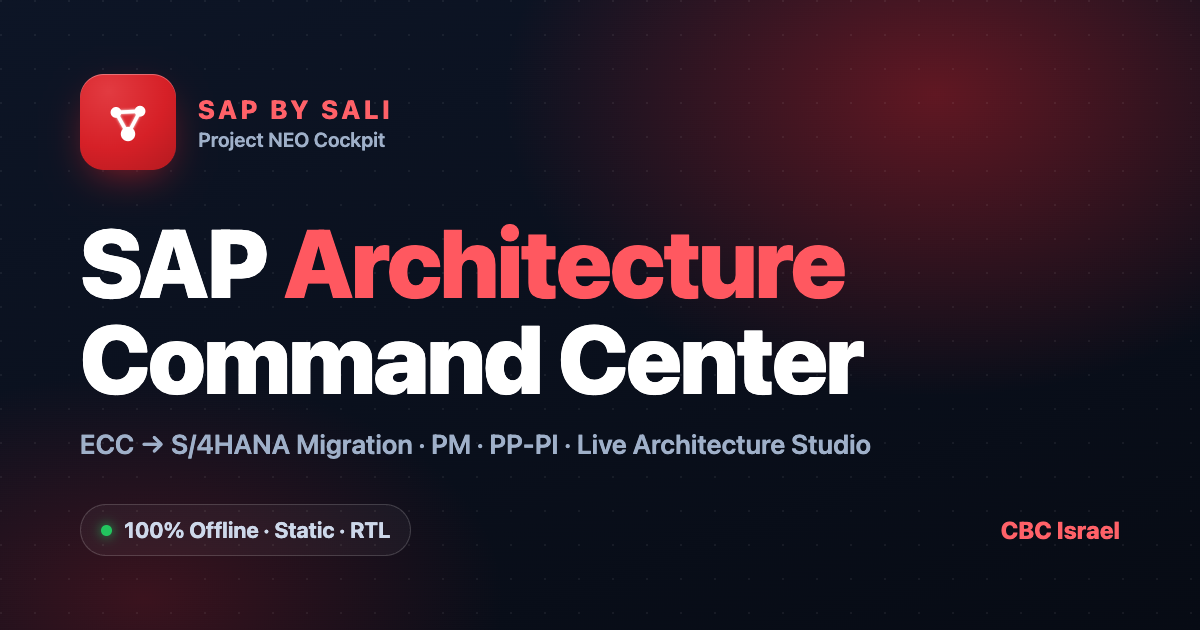
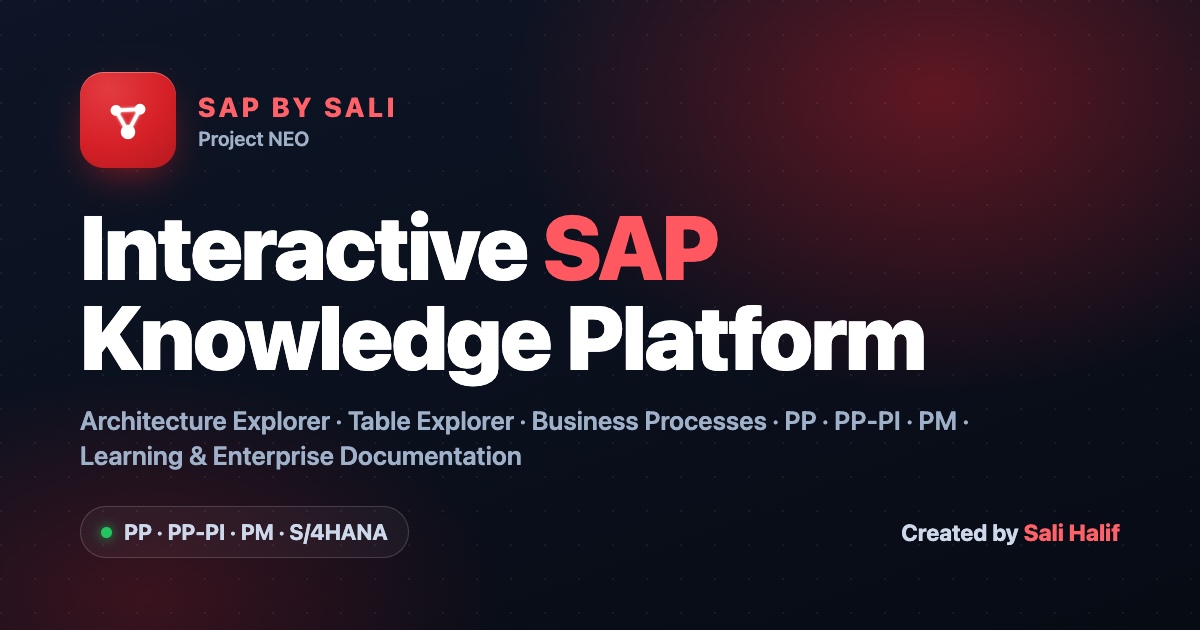
feat(brand): domain, author & identity finalization for sapbysali.app
Domain
- Canonical production domain https://sapbysali.app everywhere (metadata,
  JSON-LD, OG, sitemap, robots). No vercel.app / preview URLs present.
- vercel.json: permanent (301) redirect www.sapbysali.app → sapbysali.app.

Author & identity (single, real name)
- "Sali Halif" everywhere; removed "Sali Khalif", "Web Coding", "sali2610",
  "CBC Israel" and legacy "NEO Cockpit" from all chrome.
- Header logo rebranded to the Project NEO network monogram + "SAP by Sali /
  Project NEO" wordmark (matches favicon & OG).
- Credit bar: "Project NEO · Architecture & Development · Built by Sali Halif ·
  SAP by Sali · SAP Knowledge Platform".
- Footer: "Built by Sali Halif · Project NEO • SAP Knowledge Platform".

Metadata
- Title "SAP by Sali | Project NEO" (+ template). New description (interactive
  SAP PP/PP-PI/PM knowledge platform). author=Sali Halif, publisher/appName=
  SAP by Sali. OG/Twitter titles + alt updated. JSON-LD name/founder updated.

Social & PWA
- Regenerated premium OG image: "SAP by Sali · Project NEO / Interactive SAP
  Knowledge Platform" with "Created by Sali Halif".
- manifest name "SAP by Sali · Project NEO" + new description.

No business logic or SAP content changed. tsc 0, eslint 0, build 4342 pages.

diff --git a/app/layout.tsx b/app/layout.tsx
@@ -4,38 +4,37 @@ import { AppShell } from "@/components/app-shell";
 import { Analytics } from "@vercel/analytics/next";
 
 const SITE = "https://sapbysali.app";
+const AUTHOR = "Sali Halif";
 const DESC =
-  "SAP by Sali · Project NEO — a single source of truth for SAP ECC → S/4HANA migration. Live Architecture Studio, technical data dictionary, status cockpit for PM & PP-PI. 100% offline · RTL.";
-const DESC_HE =
-  "מקור אמת יחיד למיגרציית SAP ECC ל-S/4HANA — סטודיו ארכיטקטורה חי, מילון נתונים טכני וקוקפיט סטטוס ל-PM ו-PP-PI.";
+  "Interactive SAP PP, PP-PI and PM knowledge platform including architecture explorer, table explorer, business processes, SAP learning resources and enterprise documentation.";
 
 export const metadata: Metadata = {
   metadataBase: new URL(SITE),
   title: {
-    default: "SAP by Sali | Project NEO Cockpit",
+    default: "SAP by Sali | Project NEO",
     template: "SAP by Sali | %s",
   },
   description: DESC,
   applicationName: "SAP by Sali",
-  authors: [{ name: "Sali Khalif" }],
-  creator: "Sali Khalif",
-  publisher: "CBC Israel",
-  keywords: ["SAP", "S/4HANA", "ECC", "PP-PI", "PM", "Architecture", "Migration", "Project NEO", "CBC Israel", "Fiori", "CDS", "BAPI"],
-  alternates: { canonical: "/" },
+  authors: [{ name: AUTHOR, url: SITE }],
+  creator: AUTHOR,
+  publisher: "SAP by Sali",
+  keywords: ["SAP", "S/4HANA", "ECC", "PP", "PP-PI", "PM", "Architecture", "Table Explorer", "Business Processes", "Project NEO", "SAP by Sali", "Fiori", "CDS", "BAPI"],
+  alternates: { canonical: SITE },
   manifest: "/manifest.webmanifest",
   robots: { index: true, follow: true, googleBot: { index: true, follow: true, "max-image-preview": "large", "max-snippet": -1 } },
   openGraph: {
     type: "website",
-    siteName: "SAP by Sali · Project NEO",
+    siteName: "SAP by Sali",
     url: SITE,
-    title: "SAP by Sali | Project NEO Cockpit",
-    description: DESC_HE,
+    title: "SAP by Sali | Project NEO",
+    description: DESC,
     locale: "he_IL",
-    images: [{ url: "/og.png", width: 1200, height: 630, alt: "SAP by Sali — Project NEO · SAP Architecture Command Center" }],
+    images: [{ url: "/og.png", width: 1200, height: 630, alt: "SAP by Sali — Project NEO · Interactive SAP Knowledge Platform" }],
   },
   twitter: {
     card: "summary_large_image",
-    title: "SAP by Sali | Project NEO Cockpit",
+    title: "SAP by Sali | Project NEO",
     description: DESC,
     images: ["/og.png"],
   },
@@ -57,7 +56,8 @@ const JSON_LD = {
       "@type": "WebSite",
       "@id": `${SITE}/#website`,
       url: SITE,
-      name: "SAP by Sali · Project NEO",
+      name: "SAP by Sali",
+      alternateName: "Project NEO",
       description: DESC,
       inLanguage: "he-IL",
       publisher: { "@id": `${SITE}/#org` },
@@ -65,10 +65,11 @@ const JSON_LD = {
     {
       "@type": "Organization",
       "@id": `${SITE}/#org`,
-      name: "Project NEO — CBC Israel",
+      name: "SAP by Sali",
+      alternateName: "Project NEO — SAP Knowledge Platform",
       url: SITE,
       logo: `${SITE}/icon-512.png`,
-      founder: { "@type": "Person", name: "Sali Khalif", jobTitle: "Web Coding · Architecture & Development" },
+      founder: { "@type": "Person", name: AUTHOR, jobTitle: "Architecture & Development" },
     },
   ],
 };

diff --git a/components/site-logo.tsx b/components/site-logo.tsx
@@ -1,21 +1,20 @@
-// Inline CBC wordmark — no external asset (offline-safe). Swap for the real
-// CBC logo SVG in /public when supplied.
+// SAP by Sali · Project NEO wordmark — inline, offline-safe. White rounded tile
+// with the Project NEO network monogram (matches favicon / OG), plus wordmark.
 export function SiteLogo({ className }: { className?: string }) {
   return (
-    <span className={className} aria-label="CBC Israel" role="img">
-      <span className="inline-flex items-center gap-2">
-        <svg width="34" height="34" viewBox="0 0 34 34" fill="none" aria-hidden>
-          <rect width="34" height="34" rx="8" fill="white" />
-          <path
-            d="M11.5 11.2c-2.8 0-4.7 2.2-4.7 5.6s1.9 5.6 4.7 5.6c1.7 0 3-.8 3.8-2.1l-1.9-1c-.4.6-1 1-1.9 1-1.4 0-2.3-1.1-2.3-3.5s.9-3.5 2.3-3.5c.8 0 1.4.4 1.8 1l1.9-1c-.8-1.3-2-2.1-3.7-2.1Z"
-            fill="#d62027"
-          />
-          <path
-            d="M21.4 11.4h-4.2v11h4.4c2.5 0 4-1.2 4-3.2 0-1.4-.8-2.4-2-2.6 1-.3 1.6-1.2 1.6-2.3 0-1.8-1.4-2.9-3.8-2.9Zm-1.9 1.9h1.6c1 0 1.6.4 1.6 1.3 0 .8-.6 1.3-1.6 1.3h-1.6v-2.6Zm0 4.4h1.8c1.1 0 1.7.5 1.7 1.4s-.6 1.4-1.7 1.4h-1.8v-2.8Z"
-            fill="#d62027"
-          />
+    <span className={className} aria-label="SAP by Sali · Project NEO" role="img">
+      <span className="inline-flex items-center gap-2.5">
+        <svg width="36" height="36" viewBox="0 0 100 100" fill="none" aria-hidden>
+          <rect width="100" height="100" rx="24" fill="white" />
+          <g stroke="#d62027" strokeWidth="6" strokeLinecap="round">
+            <line x1="33" y1="37" x2="67" y2="35" /><line x1="33" y1="37" x2="50" y2="68" /><line x1="67" y1="35" x2="50" y2="68" />
+          </g>
+          <g fill="#d62027"><circle cx="33" cy="37" r="8" /><circle cx="67" cy="35" r="8" /><circle cx="50" cy="68" r="10.5" /></g>
         </svg>
-        <span className="text-lg font-bold tracking-tight">NEO Cockpit</span>
+        <span className="flex flex-col leading-none">
+          <span className="text-[15px] font-extrabold tracking-tight">SAP by Sali</span>
+          <span className="text-[10px] font-semibold uppercase tracking-[0.16em] text-white/70">Project NEO</span>
+        </span>
       </span>
     </span>
   );

diff --git a/components/creator-credit.tsx b/components/creator-credit.tsx
@@ -15,7 +15,7 @@ export function CreatorCredit() {
       initial={reduce ? false : { opacity: 0, y: -4 }}
       animate={{ opacity: 1, y: 0 }}
       transition={{ duration: 0.6, delay: 0.3, ease: [0.2, 0.7, 0.2, 1] }}
-      aria-label="Built by Sali Khalif · Web Coding · Project NEO"
+      aria-label="Built by Sali Halif · Project NEO · SAP by Sali"
       style={{ borderColor: RED }}
       className={`${reduce ? "" : "credit-red-glow"} flex w-full items-center justify-between gap-3 rounded-full border-2 bg-white px-4 py-1.5 text-[12px] font-bold leading-none`}>
       {/* right group (RTL start) — Project NEO + badge */}
@@ -29,15 +29,14 @@ export function CreatorCredit() {
 
       {/* center — creator */}
       <span className="hidden shrink-0 whitespace-nowrap text-slate-500 sm:inline">
-        Built by <b className="font-extrabold" style={{ color: RED }}>Sali Khalif</b>
-        <span className="hidden lg:inline"> · Web Coding</span>
+        Built by <b className="font-extrabold" style={{ color: RED }}>Sali&nbsp;Halif</b>
       </span>
 
-      {/* left group (RTL end) — platform + org */}
+      {/* left group (RTL end) — platform */}
       <span className="flex shrink-0 items-center gap-2 whitespace-nowrap">
-        <span className="hidden text-slate-400 md:inline">SAP Architecture Platform</span>
+        <span className="hidden text-slate-400 md:inline">SAP Knowledge Platform</span>
         <span className="hidden h-3 w-px bg-slate-200 md:inline-block" />
-        <b className="font-extrabold" style={{ color: RED }}>CBC&nbsp;Israel</b>
+        <b className="font-extrabold" style={{ color: RED }}>SAP&nbsp;by&nbsp;Sali</b>
       </span>
     </motion.div>
   );

diff --git a/app/error.tsx b/app/error.tsx
@@ -27,7 +27,7 @@ export default function RouteError({ error, reset }: { error: Error & { digest?:
               <g fill="#fff"><circle cx="33" cy="37" r="8" /><circle cx="67" cy="35" r="8" /><circle cx="50" cy="68" r="10.5" /></g>
             </svg>
           </span>
-          <div className="text-start"><div className="text-[13px] font-extrabold tracking-tight text-slate-800">SAP by Sali</div><div className="text-[11px] font-semibold text-slate-400">Project NEO Cockpit</div></div>
+          <div className="text-start"><div className="text-[13px] font-extrabold tracking-tight text-slate-800">SAP by Sali</div><div className="text-[11px] font-semibold text-slate-400">Project NEO</div></div>
         </div>
         <div className="mx-auto mt-6 grid size-12 place-items-center rounded-2xl bg-amber-50 text-amber-500"><AlertTriangle className="size-6" /></div>
         <h1 className="mt-3 text-xl font-extrabold text-slate-900">משהו השתבש בטעינת העמוד</h1>

diff --git a/app/global-error.tsx b/app/global-error.tsx
@@ -14,7 +14,7 @@ export default function GlobalError({ error, reset }: { error: Error & { digest?
                 <g fill="#fff"><circle cx="33" cy="37" r="8" /><circle cx="67" cy="35" r="8" /><circle cx="50" cy="68" r="10.5" /></g>
               </svg>
             </span>
-            <div style={{ textAlign: "start" }}><div style={{ fontSize: 13, fontWeight: 800, color: "#1e293b" }}>SAP by Sali</div><div style={{ fontSize: 11, fontWeight: 600, color: "#94a3b8" }}>Project NEO Cockpit</div></div>
+            <div style={{ textAlign: "start" }}><div style={{ fontSize: 13, fontWeight: 800, color: "#1e293b" }}>SAP by Sali</div><div style={{ fontSize: 11, fontWeight: 600, color: "#94a3b8" }}>Project NEO</div></div>
           </div>
           <h1 style={{ fontSize: 20, fontWeight: 800, marginTop: 20 }}>שגיאה בטעינת היישום</h1>
           <p style={{ fontSize: 14, color: "#64748b", marginTop: 6 }}>טען מחדש כדי להמשיך.</p>

diff --git a/components/Footer.tsx b/components/Footer.tsx
@@ -12,7 +12,11 @@ export function Footer() {
       {/* Creator credit now lives in the global header status bar (shell).
           Footer keeps only the platform line + offline status. */}
       <div className="container-app flex flex-col items-center gap-2 pt-5 pb-24 sm:flex-row sm:justify-between sm:gap-4">
-        <p className="text-center text-xs text-muted-foreground/70 sm:text-start">Project NEO — CBC Israel · SAP Architecture Platform</p>
+        <p className="text-center text-xs text-muted-foreground/80 sm:text-start">
+          Built by <b className="font-bold text-brand">Sali Halif</b>
+          <span className="mx-1.5 text-muted-foreground/40">·</span>
+          Project NEO • SAP Knowledge Platform
+        </p>
         <span className="flex shrink-0 items-center gap-2 text-xs font-medium text-muted-foreground">
           <span className="size-1.5 rounded-full bg-status-done" />
           {t("footer.offline")}

diff --git a/lib/i18n.tsx b/lib/i18n.tsx
@@ -78,8 +78,8 @@ const DICT: Dict = {
   "ux.fontSize": { he: "גודל טקסט", en: "Text size" },
   "ux.note": { he: "מתאים לקריאה נוחה ברצפת הייצור. נשמר מקומית בדפדפן.", en: "For comfortable reading on the shop floor. Saved locally." },
   "footer.credit": {
-    he: "הערת פיתוח: האתר נבנה עבור המפתח ב-Web Coding, סאלי חליף. (Project NEO - CBC Israel)",
-    en: "Development note: built for the developer at Web Coding, Sali Halif. (Project NEO - CBC Israel)",
+    he: "נבנה על ידי סאלי חליף · Project NEO — פלטפורמת ידע SAP",
+    en: "Built by Sali Halif · Project NEO — SAP Knowledge Platform",
   },
   "footer.offline": { he: "100% Offline · Static Export", en: "100% Offline · Static Export" },
   "lang.switch": { he: "EN", en: "עב" },

diff --git a/components/home-hero.tsx b/components/home-hero.tsx
@@ -57,7 +57,7 @@ export function HomeHero({ stats }: { stats: HeroStats }) {
           </span>
           SAP Enterprise Command Center
         </span>
-        <h1 className="mt-4 text-4xl font-extrabold leading-[1.05] tracking-tight sm:text-6xl">Project NEO Cockpit</h1>
+        <h1 className="mt-4 text-4xl font-extrabold leading-[1.05] tracking-tight sm:text-6xl">Project NEO</h1>
         <p className="mt-3 max-w-2xl text-balance text-sm leading-relaxed text-white/85 sm:text-lg">
           מרכז השליטה לארכיטקטורת SAP של CBC — מודולים, תהליכים, טבלאות וקשרים במקום אחד. ECC6 → S/4HANA.
         </p>

diff --git a/app/manifest.ts b/app/manifest.ts
@@ -5,9 +5,9 @@ export const dynamic = "force-static";
 
 export default function manifest(): MetadataRoute.Manifest {
   return {
-    name: "SAP by Sali · Project NEO Cockpit",
+    name: "SAP by Sali · Project NEO",
     short_name: "SAP by Sali",
-    description: "SAP ECC → S/4HANA migration command center — Live Architecture Studio, data dictionary & status cockpit for PM & PP-PI.",
+    description: "Interactive SAP PP, PP-PI and PM knowledge platform — architecture explorer, table explorer, business processes, learning resources and enterprise documentation.",
     id: "/",
     start_url: "/",
     scope: "/",

diff --git a/app/not-found.tsx b/app/not-found.tsx
@@ -21,7 +21,7 @@ export default function NotFound() {
           <Monogram />
           <div className="text-start">
             <div className="text-[13px] font-extrabold tracking-tight text-slate-800">SAP by Sali</div>
-            <div className="text-[11px] font-semibold text-slate-400">Project NEO Cockpit</div>
+            <div className="text-[11px] font-semibold text-slate-400">Project NEO</div>
           </div>
         </div>
         <p className="mt-6 bg-gradient-to-b from-brand to-brand-dark bg-clip-text text-6xl font-black tracking-tighter text-transparent">404</p>

diff --git a/app/story/page.tsx b/app/story/page.tsx
@@ -1,7 +1,7 @@
 import Link from "next/link";
 import { STORIES } from "@/data/story/pppi-process-order";
 
-export const metadata = { title: "סיורים מודרכים · NEO Cockpit" };
+export const metadata = { title: "סיורים מודרכים · Project NEO" };
 
 export default function StoryHome() {
   const stories = Object.values(STORIES);

diff --git a/app/impact/page.tsx b/app/impact/page.tsx
@@ -1,6 +1,6 @@
 import { ImpactChooser } from "@/components/impact-chooser";
 
-export const metadata = { title: "מרכז השפעה ותלויות · NEO Cockpit" };
+export const metadata = { title: "מרכז השפעה ותלויות · Project NEO" };
 
 export default function ImpactPage() {
   return <ImpactChooser />;
